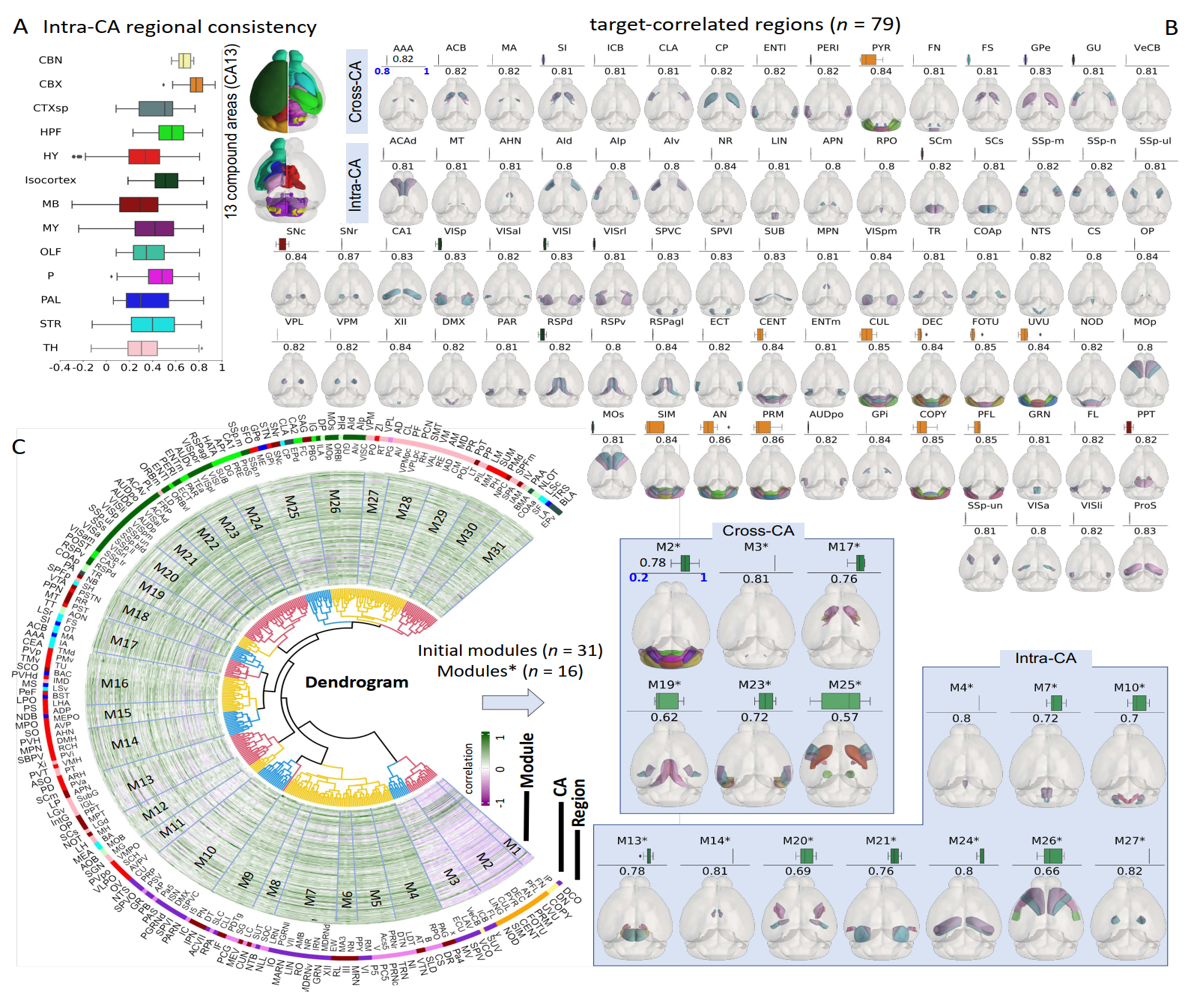
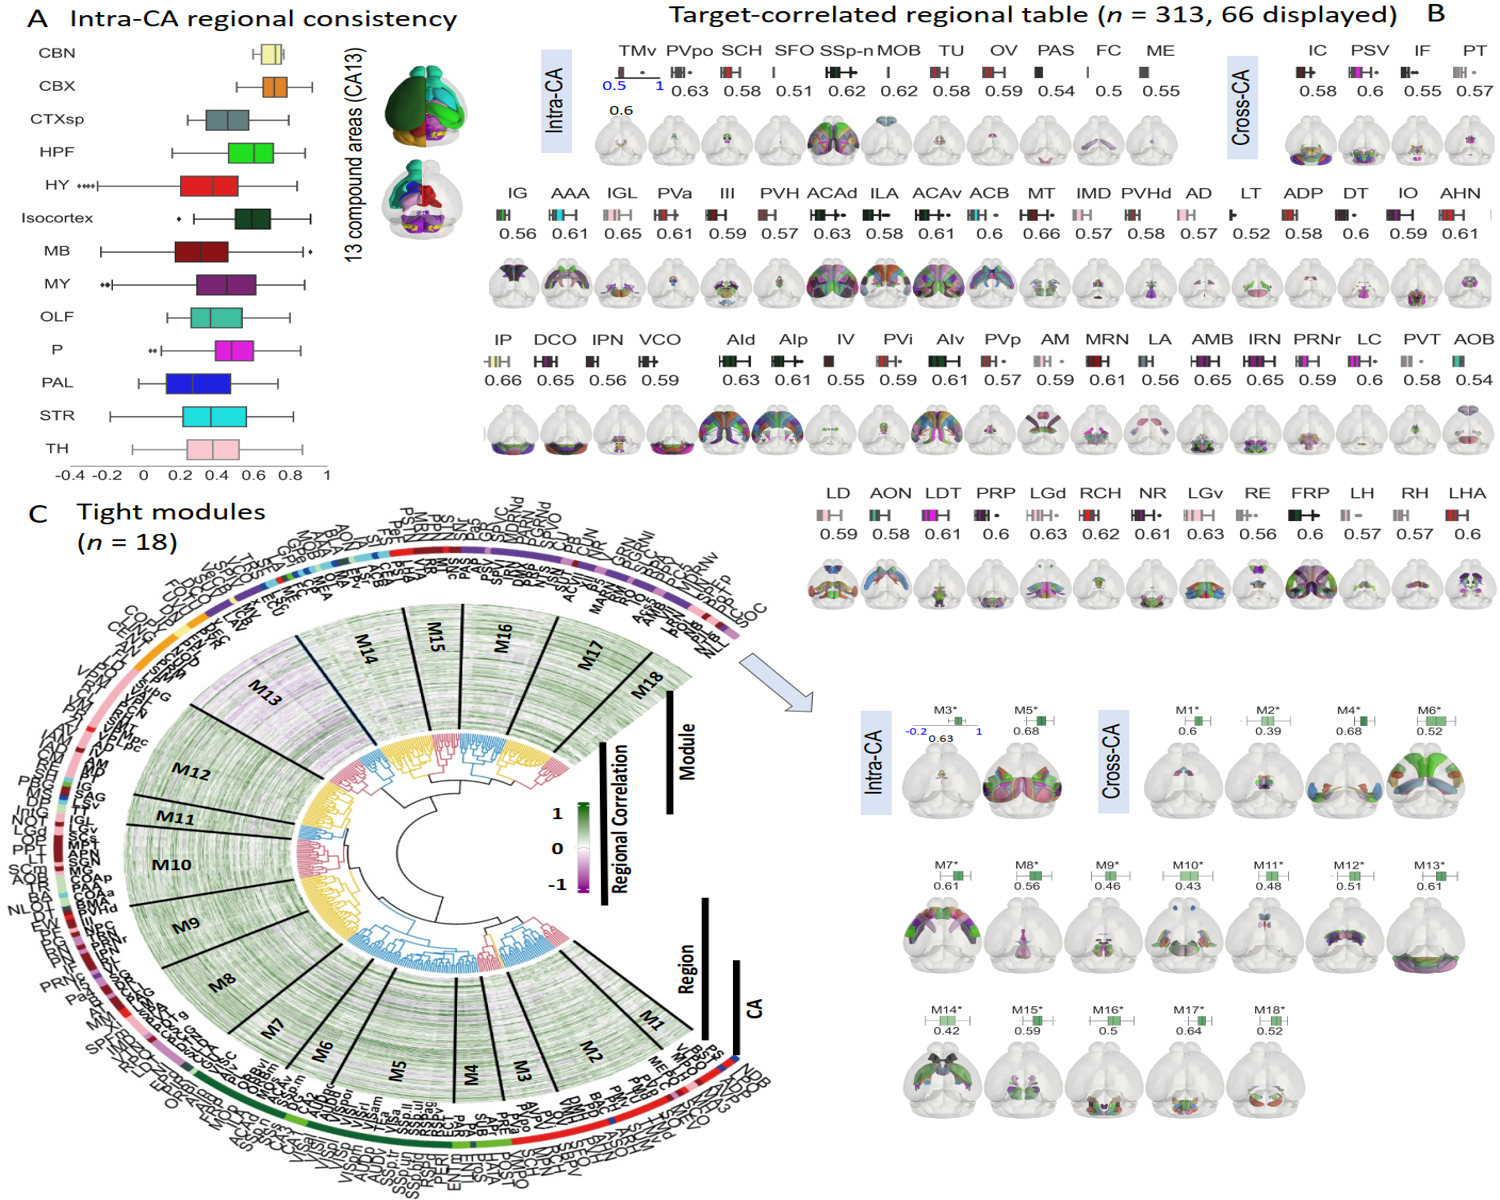
fig update

diff --git a/index.html b/index.html
@@ -63,7 +63,7 @@
                 
                   </div>
                   <div class="is-size-5 publication-authors">
-                    <span class="author-block"><a href="http://braintell.org">Institute for Brain and Intelligence</a><br>Southeast University (China)</span>
+                    <span class="author-block"><b>New Cornerstone Science Laboratory<br>SEU-ALLEN Joint Center<br><a href="http://braintell.org">Institute for Brain and Intelligence</a><br>Southeast University, Nanjing, Jiangsu, China</b></span>
                     <span class="eql-cntrb"><br><sup>*</sup>Correspondence: <a href="mailto:h@braintell.org">h@braintell.org</a></span>
                   </div>
 
@@ -143,8 +143,8 @@
                 <ul>
                   <li>One of the largest multi-morphometry databases of mammalian brains to date.</li>
                   <li>204 mouse brain, 6 BICCN data sources, 3 major imaging modalities, 5 collaborative projects.</li>
-                  <li>182K soma locations, 15K local morphologies, 1876 full morphologies, 2.6 million putative synaptic boutons.</li>
-                  <li>6 levels of analysis</li>
+                  <li>182,497 soma locations (SEU-S182K); 15,441 local morphologies (SEU-D15K); 1,876 full morphologies (SEU-A1876); 2.63 million axonal varicosities.</li>
+                  <li>6 levels of analysis: neuronal populations, dendritic microenvironments, single-cell full morphology, sub-neuronal dendritic and axonal arborization, axonal varicosities, and sub-neuronal structural motifs.</li>
                 </ul>
               </b>
             </font>
@@ -175,7 +175,7 @@
           </video>
         </div>
         <h2 class="subtitle has-text-centered">
-          Soma Locations (182,497)
+          Soma Locations (SEU-S182K)
         </h2>
       </div>
       <div class="column">
@@ -257,7 +257,7 @@
         <h2 class="title is-2">Abstract</h2>
         <div class="content has-text-justified">
           <p><font size="4">
-            We have conducted a large-scale study of whole-brain morphometry, analyzing 3.7 peta-voxels of mouse brain images at the single-cell resolution. This is one of the largest multi-morphometry databases of mammalian brains to date. We spatially registered 205 mouse brains and associated data from 6 BICCN data sources covering 3 major imaging modalities from 5 collaborative projects to the Allen Common Coordinate Framework (CCF) atlas, annotated 3D locations of cell bodies of 227,581 neurons, modeled 15,441 dendritic microenvironments, characterized the full morphology of 1,891 neurons along with their axonal motifs, and detected 2.6 million putative synaptic boutons. Our analysis covers 6 levels of information related to neuronal populations, dendritic microenvironments, single-cell full morphology, sub-neuronal dendritic and axonal arborization, axonal boutons, and structural motifs, along with a quantitative characterization of the diversity and stereotypy of patterns at each level. We identified 16 modules consisting of highly intercorrelated brain regions in 13 functional brain areas corresponding to 314 anatomical regions in CCF. Our analysis revealed the dendritic microenvironment as a powerful method for delineating brain regions of cell types and potential subtypes. We also found that full neuronal morphologies can be categorized into four distinct classes based on spatially tuned morphological features, with substantial cross-areal diversity in apical dendrites, basal dendrites, and axonal arbors, along with quantified stereotypy within cortical, thalamic and striatal regions. The lamination of somas was found to be more effective in differentiating neuron arbors within the cortex. We further analyzed diverging and converging projections of individual neurons in 25 regions throughout the brain and observed branching preferences in the brain-wide and local distributions of axonal boutons. Although it was known that somas of different cell types may mix in close proximity, our analysis also revealed that spatial proximity of neurons could correlate with morphological similarity for both somas and axons at different resolution scales or granularities. Overall, our study provides a comprehensive description of key anatomical structures of neurons and their types, covering a wide range of scales and features. This work represents a significant contribution to our understanding of the organization and function of the mammalian brain.
+            We conducted a large-scale study of whole-brain morphometry, analyzing 3.7 peta-voxels of mouse brain images at the single-cell resolution, producing one of the largest multi-morphometry databases of mammalian brains to date. We spatially registered 204 mouse brains and associated data from six Brain Initiative Cell Census Network (BICCN) data sources covering three major imaging modalities from five collaborative projects to the Allen Common Coordinate Framework (CCF) atlas, annotated 3D locations of cell bodies of 182,497 neurons, modeled 15,441 dendritic microenvironments, characterized the full morphology of 1,876 neurons along with their axonal motifs, and detected 2.63 million axonal varicosities that indicate potential synaptic sites. Our analysis covers six levels of information related to neuronal populations, dendritic microenvironments, single-cell full morphology, sub-neuronal dendritic and axonal arborization, axonal varicosities , and sub-neuronal structural motifs, along with a quantification of the diversity and stereotypy of patterns at each level. We identified 15 modules consisting of intercorrelated brain regions selected from 314 anatomical areas in the CCF. Our analysis revealed the dendritic microenvironment as a powerful method for delineating region-specific cell types and potential subtypes. We also found that full neuronal morphologies can be categorized into four distinct classes based on spatially tuned morphological features, with substantial cross-areal diversity in dendritic arbors and axonal arbors, along with quantified stereotypy within cortical, thalamic, and striatal regions. We found the lamination of somas is more effective than the brain region of somas in differentiating neuron arbors within the cortex. Further analysis of diverging and converging projections of individual neurons in 25 brain regions throughout the brain reveals branching preferences in the brain-wide and local distributions of axonal varicosities . Overall, our study provides a comprehensive description of key anatomical structures of neurons and their types, covering a wide range of scales and features, and contributes an extensive resource to understanding neuronal diversity in the mammalian brain.
           </font>
           </p>
         </div>
@@ -281,56 +281,56 @@
         <!-- Your image here -->
         <img src="static/images/Fig1_resized.png" alt="MY ALT TEXT"/>
         <h2 class="subtitle has-text-centered">
-          Figure 1. Multiscale morphometry analysis from multi-modal mouse brain images. 
+          <b>Figure 1. Multiscale morphometry analysis from mouse brain images. </b>
         </h2>
       </div>
       <div class="item">
         <!-- Your image here -->
         <img src="static/images/Fig2_resized.png" alt="MY ALT TEXT"/>
         <h2 class="subtitle has-text-centered">
-          Figure 2. Modules inferred from multiplexed brains. 
+          <b>Figure 2. Modules inferred from multiplexed brains. </b>
         </h2>
       </div>
       <div class="item">
         <!-- Your image here -->
         <img src="static/images/Fig3_resized.png" alt="MY ALT TEXT"/>
         <h2 class="subtitle has-text-centered">
-          Figure 3. Feature distributions of dendritic microenvironments across the whole brain.
+          <b>Figure 3. Feature distributions of dendritic microenvironments across the whole brain.</b>
        </h2>
      </div>
      <div class="item">
       <!-- Your image here -->
       <img src="static/images/Fig4_resized.png" alt="MY ALT TEXT"/>
       <h2 class="subtitle has-text-centered">
-        Figure. 4 Anatomical characterization of whole-brain fully reconstructed neurons.
+        <b>Figure. 4 Anatomical characterization of whole-brain fully reconstructed neurons.</b>
       </h2>
     </div>
     <div class="item">
       <!-- Your image here -->
       <img src="static/images/Fig5_resized.png" alt="MY ALT TEXT"/>
       <h2 class="subtitle has-text-centered">
-        Figure 5. Morphological stereotypy and diversity in neuronal arbors.
+        <b>Figure 5. Morphological stereotypy and diversity in neuronal arbors.</b>
       </h2>
     </div>
     <div class="item">
       <!-- Your image here -->
       <img src="static/images/Fig6_resized.png" alt="MY ALT TEXT"/>
       <h2 class="subtitle has-text-centered">
-        Figure 6. Projection patterns and anatomical insights from primary axonal tracts.
+        <b>Figure 6. Projection patterns and anatomical insights from primary axonal tracts.</b>
       </h2>
     </div>
     <div class="item">
       <!-- Your image here -->
       <img src="static/images/Fig7_resized.png" alt="MY ALT TEXT"/>
       <h2 class="subtitle has-text-centered">
-        Figure 7. Spatial patterns of bouton distribution at various scales.
+        <b>Figure 7. Spatial patterns of axonal varicosities distribution at various scales.</b>
       </h2>
     </div>
     <div class="item">
       <!-- Your image here -->
       <img src="static/images/Fig8_resized.png" alt="MY ALT TEXT"/>
       <h2 class="subtitle has-text-centered">
-        Figure 8. Quantitative diversity and stereotypy analyses based on cross-scale features.
+        <b>Figure 8. Quantitative diversity and stereotypy analyses based on cross-scale features.</b>
       </h2>
     </div>
   </div>
@@ -373,7 +373,7 @@
               Josh Huang for sharing raw image data, 
               Yuanyuan Song and LuLu Yin for assistance of the single-neuron annotation, 
               Jiangshan Liang, Luchen Deng, Shize Chen, Fei Xing, Yihang Zhu, Lei Huang and Kaixiang Li for help in tool development, 
-              Xuan Zhao, Ye Zhong, Jingzhou Yuan, and another 7 users for help in soma-annotation, 
+              Xuan Zhao, Ye Zhong, Jingzhou Yuan, and another 7 anonymous users for help in soma-annotation, 
               and Yiwei Li for assistance of optimizing soma locations. 
               This work was mainly supported by a Southeast University (SEU) initiative of neuroscience awarded to Hanchuan Peng. 
             </font>
